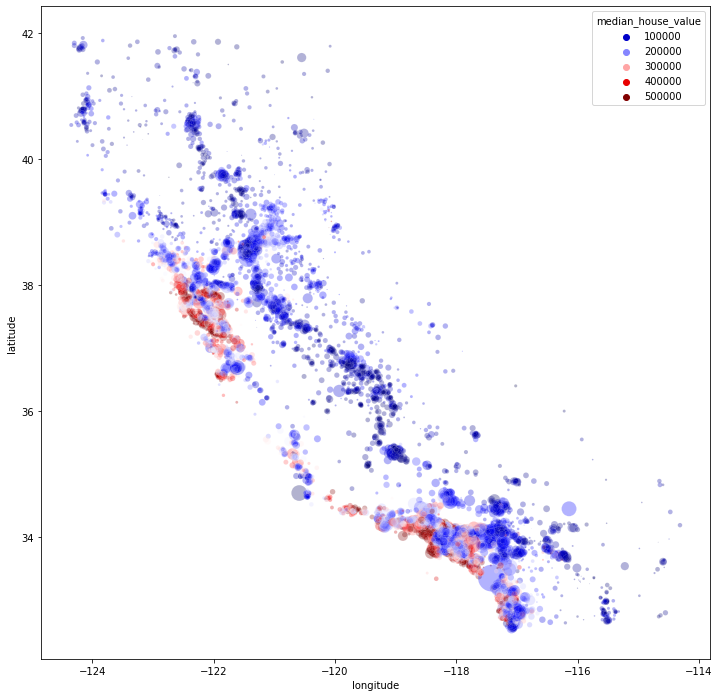
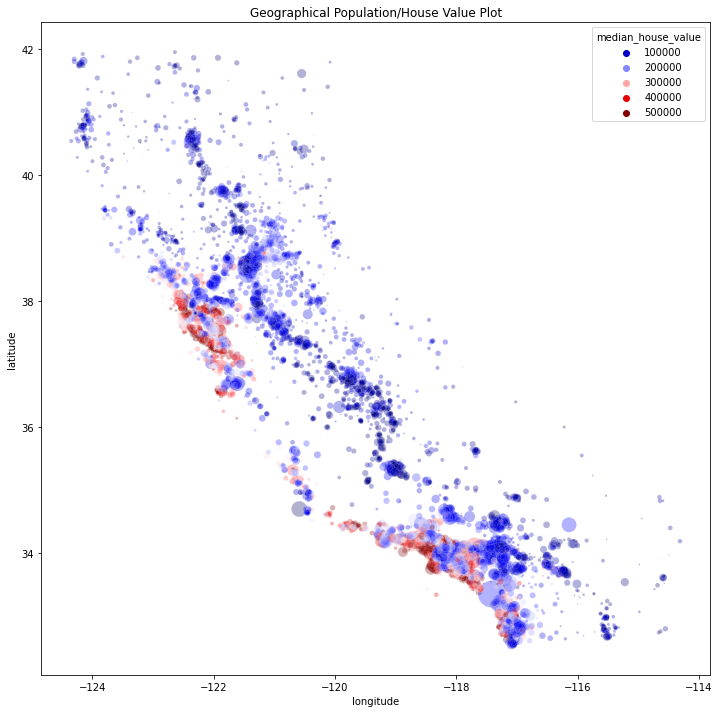
notes2

diff --git a/_projects/ml-book/chapter2/notes.md b/_projects/ml-book/chapter2/notes.md
@@ -52,8 +52,8 @@ import urllib.request
 import os
 import pandas as pd
 
-housing_url = "https://raw.githubusercontent.com/ageron/" +
-              "handson-ml/master/datasets/housing/housing.tgz"
+housing_url = ("https://raw.githubusercontent.com/ageron/" +
+               "handson-ml/master/datasets/housing/housing.tgz")
 
 def read_tar(url):
     r = urllib.request.urlopen(url)
@@ -567,6 +567,7 @@ sns.scatterplot(x="longitude", y="latitude", data=df,
                 s=df["population"] / 50, 
                 hue=df["median_house_value"], 
                 alpha=0.3, palette="seismic");
+plt.title("Geographical Population/House Value Plot");
 
 ```
 
@@ -574,6 +575,51 @@ sns.scatterplot(x="longitude", y="latitude", data=df,
     
 ![png](/assets/images/ml-book/chapter2/notes_19_0.png)
     
+
+
+
+```python
+# Correlations
+corr = df.corr()
+corr["median_house_value"].sort_values(ascending=False)
+# Scatter
+from pandas.plotting import scatter_matrix
+scatter_matrix(df[["median_house_value", "median_income", 
+                   "total_rooms", "housing_median_age"]], figsize=(16, 12));
+```
+
+
+    
+![png](/assets/images/ml-book/chapter2/notes_20_0.png)
+    
+
+
+
+```python
+# Combining features
+df["population_per_household"] = df["population"] / df["households"]
+df["bedrooms_per_room"] = df["total_bedrooms"] / df["total_rooms"]
+df["rooms_per_household"] = df["total_rooms"] / df["households"]
+df.corr()["median_house_value"].sort_values(ascending=False)
+```
+
+
+
+
+    median_house_value          1.000000
+    median_income               0.687160
+    rooms_per_household         0.146285
+    total_rooms                 0.135097
+    housing_median_age          0.114110
+    households                  0.064506
+    total_bedrooms              0.047689
+    population_per_household   -0.021985
+    population                 -0.026920
+    longitude                  -0.047432
+    latitude                   -0.142724
+    bedrooms_per_room          -0.259984
+    Name: median_house_value, dtype: float64
+
 
 
 
